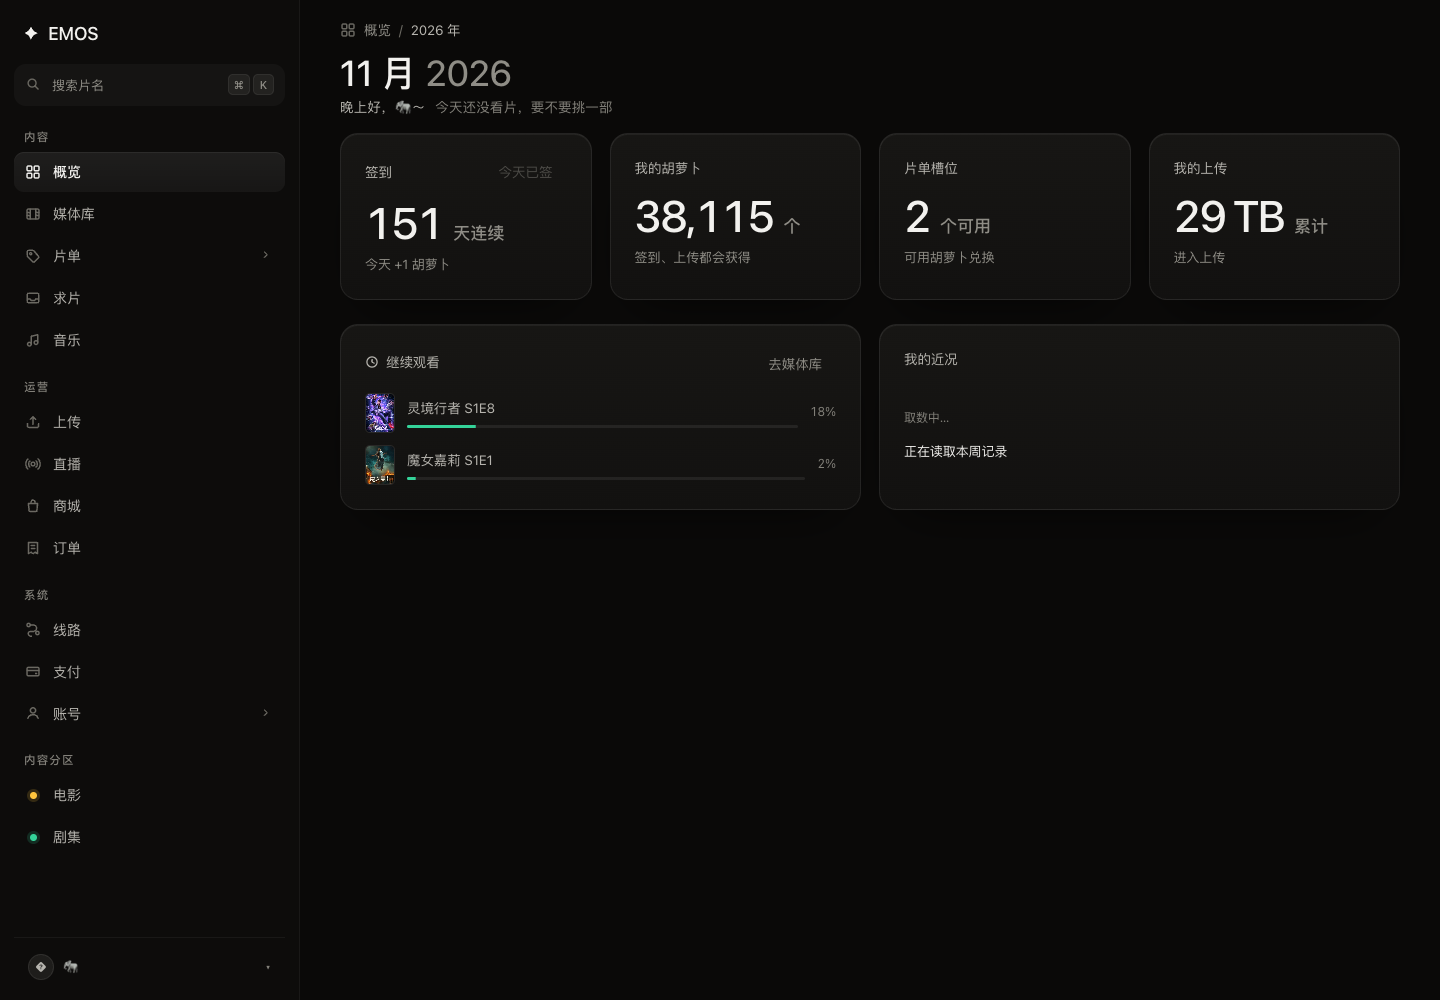
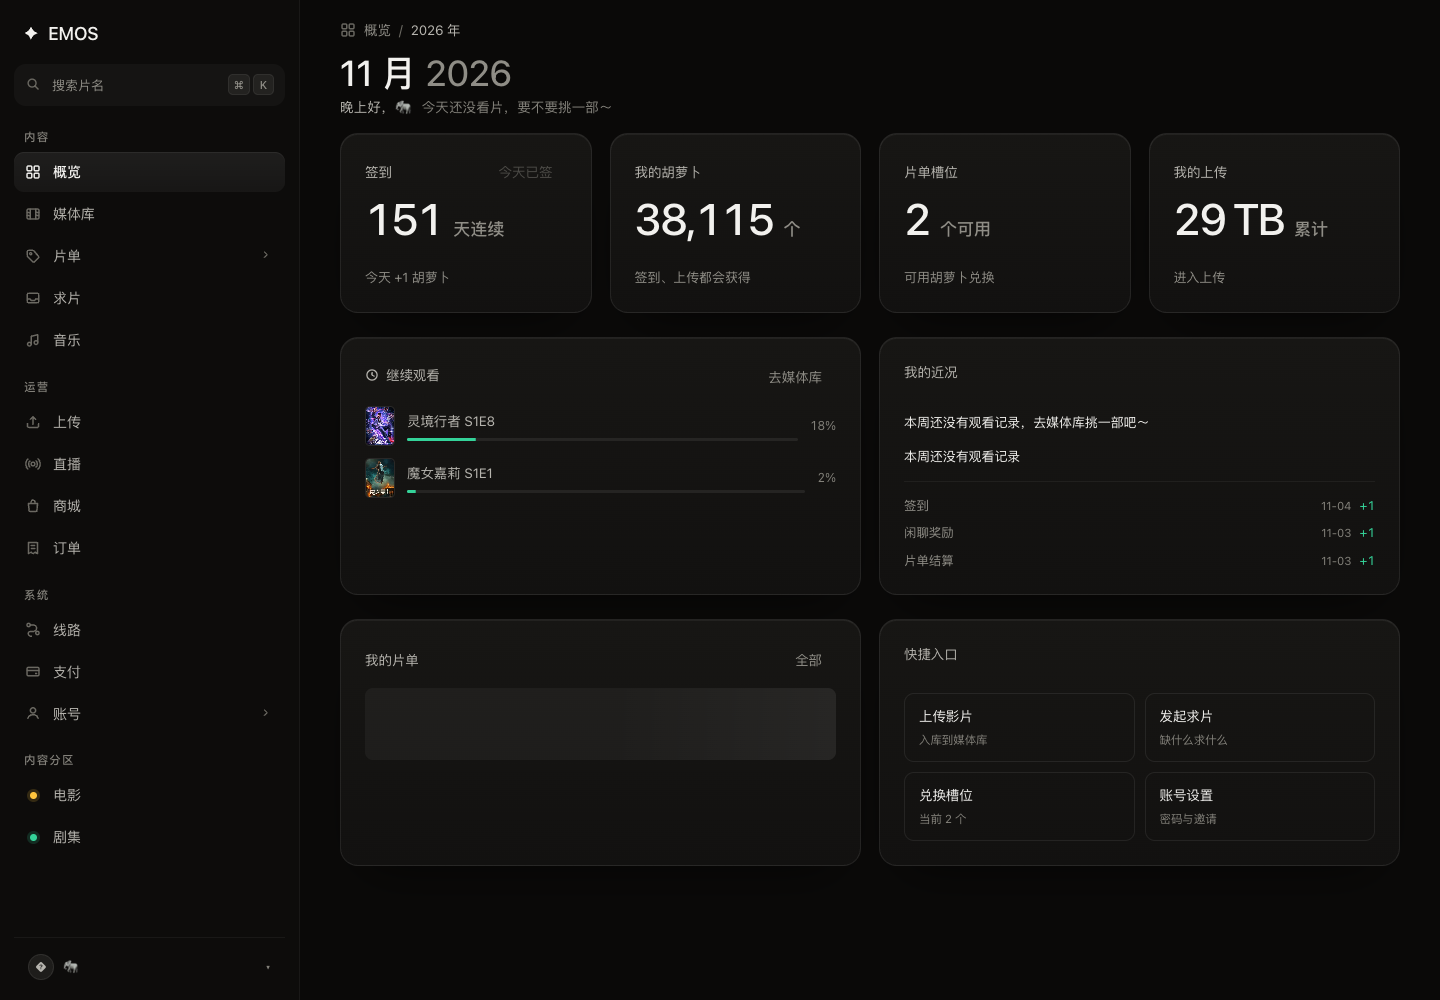
feat(overview): 文案池日轮换 + 卡片四向对称 + 底部补充
- 问候语做成 8 条 + 4 条「今天已看」的句子池，按日期取模每天换一条
- 波浪号从用户名后移到整句末尾
- 四张统计卡改为固定三行栅格（28/52/auto），label·value·hint 上下完全对齐（实测 158/196/268 一致）
- 底部补两栏：我的片单（近 3 个，可进详情）+ 快捷入口（上传/求片/兑换槽位/账号）
- 近况与片单的加载、失败、空态各自给一句话，不重复

diff --git a/src/views/OverviewView.tsx b/src/views/OverviewView.tsx
@@ -1,11 +1,36 @@
 import { Link } from '@tanstack/react-router'
 import { useMutation, useQueryClient } from '@tanstack/react-query'
 import { PageHeader } from '@/components/PageHeader'
-import { useCapabilities, useCarrot, useCarrotHistory, useContinueWatching, useSession, useWatchStats } from '@/api/queries'
+import { useCapabilities, useCarrot, useCarrotHistory, useContinueWatching, useMyWatchlistRecent, useSession, useWatchStats } from '@/api/queries'
 import { userApi } from '@/api/endpoints'
 import { toast } from '@/ui/toast'
 import { IconClock } from '@/components/icons'
 import { formatSize, formatThousand } from '@/lib/format'
+
+const GREETINGS = ['早上好', '中午好', '下午好', '晚上好', '夜深了']
+
+const LINES_WATCHED = [
+  '今天已经看了 {m} 分钟～',
+  '今天看了 {m} 分钟，正合适～',
+  '{m} 分钟到手，明天见～',
+  '今天看了 {m} 分钟，好兴致～',
+]
+
+const LINES_IDLE = [
+  '今天还没看片，要不要挑一部～',
+  '今天还没动，片单里有一部等你～',
+  '还没开演，挑一部慢慢看～',
+  '今天还没看片，来点轻松的还是烧脑的～',
+  '屏幕还黑着，随手挑一部吧～',
+  '不如现在开一部，正好赶上～',
+  '今天还没看片，先把想看的那部补上～',
+  '还没开始看，随便点一部都是新的～',
+]
+
+function pickByDay<T>(pool: readonly T[], date: Date, salt = 0): T {
+  const key = date.getFullYear() * 10000 + (date.getMonth() + 1) * 100 + date.getDate() + salt
+  return pool[key % pool.length]
+}
 
 export function OverviewView() {
   const caps = useCapabilities()
@@ -14,6 +39,7 @@ export function OverviewView() {
   const watching = useContinueWatching()
   const stats = useWatchStats(1)
   const carrotHistory = useCarrotHistory(1, 3)
+  const myWatches = useMyWatchlistRecent(3)
   const ready = Boolean(session.data)
   const qc = useQueryClient()
 
@@ -33,18 +59,15 @@ export function OverviewView() {
   const signedToday = caps.signedToday
   const signInfo = session.data?.sign
   const hour = now.getHours()
-  const greeting = hour < 6 ? '夜深了' : hour < 11 ? '早上好' : hour < 14 ? '中午好' : hour < 18 ? '下午好' : '晚上好'
+  const greeting =
+    hour < 6 ? GREETINGS[4] : hour < 11 ? GREETINGS[0] : hour < 14 ? GREETINGS[1] : hour < 18 ? GREETINGS[2] : GREETINGS[3]
   const displayName = session.data?.pseudonym || session.data?.username || ''
   const todayKey = `${year}-${String(now.getMonth() + 1).padStart(2, '0')}-${String(now.getDate()).padStart(2, '0')}`
   const todaySeconds = stats.data?.byDate[todayKey] ?? 0
   const todayText =
     todaySeconds > 0
-      ? `今天已经看了 ${Math.round(todaySeconds / 60)} 分钟`
-      : hour >= 18
-        ? '今天还没看片，要不要挑一部'
-        : hour < 11
-          ? '新的一天，来看点什么'
-          : '还没有开始看，随时都行'
+      ? pickByDay(LINES_WATCHED, now).replace('{m}', String(Math.round(todaySeconds / 60)))
+      : pickByDay(LINES_IDLE, now)
 
   return (
     <>
@@ -52,14 +75,14 @@ export function OverviewView() {
 
       <p className="greeting">
         {greeting}
-        {displayName ? `，${displayName}` : ''}～
+        {displayName ? `，${displayName}` : ''}
         <span>{todayText}</span>
       </p>
 
       <section className="cards" style={{ gridTemplateColumns: 'repeat(4, minmax(0, 1fr))', marginTop: 16 }}>
-        <article className="card">
-          <div style={{ display: 'flex', alignItems: 'baseline', justifyContent: 'space-between', gap: 12 }}>
-            <p className="stat__label" style={{ margin: 0 }}>签到</p>
+        <article className="card card--stat">
+          <p className="stat__label" style={{ margin: 0 }}>
+            签到
             <button
               className={signedToday ? 'btn btn--quiet' : 'btn btn--primary'}
               style={{ height: 28 }}
@@ -68,8 +91,8 @@ export function OverviewView() {
             >
               {signedToday ? '今天已签' : '立即签到'}
             </button>
-          </div>
-          <p className="stat__value" style={{ marginTop: 14 }}>
+          </p>
+          <p className="stat__value">
             {!ready ? '—' : signedToday ? (signInfo?.continuous_days ?? 0) : '—'}
             <small>{!ready ? '读取中' : signedToday ? '天连续' : '还没签到'}</small>
           </p>
@@ -78,7 +101,7 @@ export function OverviewView() {
           </p>
         </article>
 
-        <article className="card">
+        <article className="card card--stat">
           <p className="stat__label">我的胡萝卜</p>
           <p className="stat__value">
             {formatThousand(carrot.data?.carrot ?? session.data?.carrot ?? 0)}
@@ -89,7 +112,7 @@ export function OverviewView() {
           </p>
         </article>
 
-        <Link className="card todo" to="/watchlists" search={{ page: 1, page_size: 20, scope: 'self', type: 'video' }}>
+        <Link className="card card--stat todo" to="/watchlists" search={{ page: 1, page_size: 20, scope: 'self', type: 'video' }}>
           <p className="stat__label">片单槽位</p>
           <p className="stat__value">
             {ready ? caps.slotRemaining : '—'}
@@ -100,7 +123,7 @@ export function OverviewView() {
           </p>
         </Link>
 
-        <Link className="card todo" to="/upload">
+        <Link className="card card--stat todo" to="/upload">
           <p className="stat__label">我的上传</p>
           <p className="stat__value">
             {!ready ? '—' : caps.sizeUpload > 0 ? formatSize(caps.sizeUpload) : '0 B'}
@@ -224,6 +247,68 @@ export function OverviewView() {
               ))}
             </ul>
           ) : null}
+        </article>
+      </section>
+
+      <section className="cards" style={{ gridTemplateColumns: 'repeat(2, minmax(0, 1fr))' }}>
+        <article className="card">
+          <div style={{ display: 'flex', alignItems: 'baseline', justifyContent: 'space-between', gap: 12 }}>
+            <p className="stat__label" style={{ margin: 0 }}>我的片单</p>
+            <Link className="btn btn--quiet" to="/watchlists" search={{ page: 1, page_size: 20, scope: 'self', type: 'video' }}>
+              全部
+            </Link>
+          </div>
+
+          {myWatches.isLoading ? <div className="skeleton" style={{ height: 72, marginTop: 12 }} /> : null}
+          {myWatches.error ? (
+            <p className="state__hint" style={{ textAlign: 'left', padding: '14px 0 0' }}>
+              片单暂时取不到，稍后再看～
+            </p>
+          ) : null}
+
+          {myWatches.data && myWatches.data.length === 0 ? (
+            <p className="state__hint" style={{ textAlign: 'left', padding: '14px 0 0' }}>
+              还没有自己的片单，建一个把想看的攒起来～
+            </p>
+          ) : null}
+
+          <ul style={{ display: 'grid', gap: 10, marginTop: 12 }}>
+            {(myWatches.data ?? []).map((watch) => (
+              <li key={watch.id}>
+                <Link
+                  to="/watchlists/$watchId"
+                  params={{ watchId: String(watch.id) }}
+                  search={{ page: 1, page_size: 20, q: '' }}
+                  style={{ display: 'flex', alignItems: 'center', gap: 10, fontSize: 13 }}
+                >
+                  <span style={{ color: 'var(--fg-2)', flex: 1, minWidth: 0, overflow: 'hidden', textOverflow: 'ellipsis', whiteSpace: 'nowrap' }}>
+                    {watch.name}
+                  </span>
+                  <span className="muted tnum" style={{ fontSize: 11.5 }}>{watch.video_count} 部</span>
+                  <span className="muted" style={{ fontSize: 11.5, width: 62, textAlign: 'right' }}>
+                    {watch.updated_at ? watch.updated_at.slice(5, 10) : ''}
+                  </span>
+                </Link>
+              </li>
+            ))}
+          </ul>
+        </article>
+
+        <article className="card">
+          <p className="stat__label">快捷入口</p>
+          <div style={{ display: 'grid', gridTemplateColumns: 'repeat(2, minmax(0, 1fr))', gap: 10, marginTop: 14 }}>
+            {[
+              { label: '上传影片', to: '/upload' as const, note: caps.canUpload ? '入库到媒体库' : '需先开通权限' },
+              { label: '发起求片', to: '/seek' as const, note: '缺什么求什么' },
+              { label: '兑换槽位', to: '/account' as const, note: `当前 ${caps.slotRemaining} 个` },
+              { label: '账号设置', to: '/account' as const, note: '密码与邀请' },
+            ].map((item) => (
+              <Link key={item.label} className="quick" to={item.to}>
+                <span style={{ color: 'var(--fg)', fontSize: 13.5 }}>{item.label}</span>
+                <span className="muted" style={{ fontSize: 11.5 }}>{item.note}</span>
+              </Link>
+            ))}
+          </div>
         </article>
       </section>
     </>

diff --git a/src/styles/components.css b/src/styles/components.css
@@ -1072,7 +1072,6 @@ th.num .th-sort { flex-direction: row-reverse; }
 .card.todo {
   text-decoration: none;
   color: inherit;
-  display: block;
   transition: border-color var(--t-fast) var(--ease);
 }
 .card.todo:hover { border-color: var(--line-hot); }
@@ -1088,3 +1087,49 @@ th.num .th-sort { flex-direction: row-reverse; }
   color: var(--fg-4);
   margin-left: 10px;
 }
+
+.card { display: flex; flex-direction: column; }
+.card--stat {
+  display: grid;
+  grid-template-rows: 28px 52px minmax(0, auto);
+  row-gap: 10px;
+  align-content: start;
+}
+
+.card--stat > .stat__label,
+.card--stat > div:first-child {
+  margin: 0;
+  height: 28px;
+  min-height: 28px;
+  display: flex;
+  align-items: center;
+  justify-content: space-between;
+  gap: 10px;
+}
+
+.card--stat > .stat__label { line-height: 28px; }
+
+.card--stat > .stat__value {
+  margin: 0;
+  height: 52px;
+  align-items: baseline;
+  line-height: 1;
+  white-space: nowrap;
+}
+
+.card--stat > .stat__delta {
+  margin: 0;
+  align-self: end;
+  line-height: 1.5;
+}
+
+.quick {
+  display: grid;
+  gap: 4px;
+  padding: 12px 14px;
+  border-radius: var(--r-item);
+  border: 1px solid var(--line);
+  text-decoration: none;
+  transition: border-color var(--t-fast) var(--ease);
+}
+.quick:hover { border-color: var(--line-hot); }

diff --git a/src/api/queries.ts b/src/api/queries.ts
@@ -80,6 +80,14 @@ export function useIsAdmin(): boolean {
   return useCapabilities().isAdmin
 }
 
+export function useMyWatchlistRecent(size = 3) {
+  return useQuery({
+    queryKey: ['watch', 'mine', 'recent', size] as const,
+    queryFn: async () => (await watchApi.list({ is_self: true, page: 1, page_size: size })).items,
+    staleTime: 5 * 60_000,
+  })
+}
+
 export function useMyWatchlists() {
   return useQuery({
     queryKey: ['watch', 'mine'] as const,
